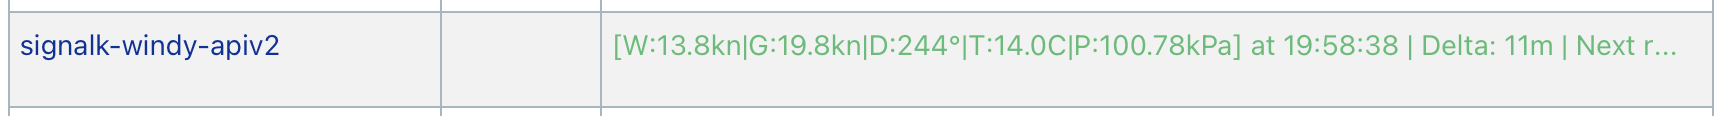
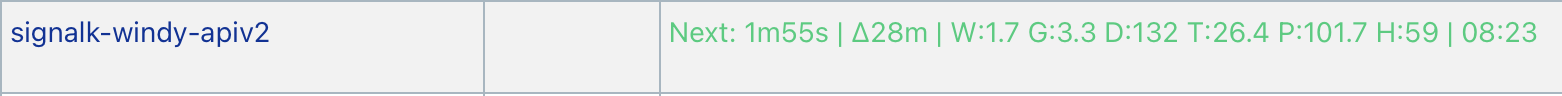
release: v1.6.0 - stale readings left out, one source for all readings, Forced indicator, station elevation

diff --git a/CHANGELOG.md b/CHANGELOG.md
@@ -19,6 +19,7 @@ and this project adheres to [Semantic Versioning](https://semver.org/spec/v2.0.0
 - **Gust Never Below Wind**: Wind speed and gust now come from the same samples, and a gust is never sent below the wind speed of the same report. A report such as wind 8.6 kn with gust 0.2 kn, as described in [#9](https://github.com/Peter-Petrik/signalk-windy-apiv2/issues/9), can no longer be produced. The cause of that report has not been established, so the issue stays open.
 - **"No data" Line Replaces "Waiting for sensor data"**: When a cycle has nothing to send, the dashboard names the first path without a usable reading and the number of further ones, for example `No data: environment.wind.speedOverGround +4`, and keeps showing it through the countdown. The earlier message was replaced by the countdown after one second, and the readings of the last report stayed on the line as if they were current.
 - **No Station Update From an Old Position**: A station update is not sent when the last position is older than the Maximum Reading Age. The vessel may have moved since, and the station would be placed where the vessel no longer is.
+- **Screenshots**: The screenshots of the dashboard status, the vessel settings and the transmission settings were retaken with this version on Signal K server 2.33.0. The dashboard status and the transmission settings are shown in the Signal K App Store again; they had been left out of the store's list since 1.5.1 because they showed an earlier version.
 - **Settings Help Text**: The descriptions of Station Type, Operator Website URL, the two sensor heights and the Min Movement Threshold now say what each value does. The sensor heights are described as heights above the water line and not the station elevation, which was the misunderstanding behind one part of [#9](https://github.com/Peter-Petrik/signalk-windy-apiv2/issues/9).
 
 ## [1.5.2] - 2026-10-10

diff --git a/README.md b/README.md
@@ -188,9 +188,13 @@ Contributions are welcome — see [CONTRIBUTING.md](CONTRIBUTING.md) for guideli
 ### Vessel on Windy Map
 ![Windy Station View](screenshots/windy-station.png)
 
+### Dashboard Status
+![Dashboard Status](screenshots/dashboard-status.png)
+
 ### Plugin Configuration
 ![Credentials](screenshots/configuration-credentials.png)
 ![Vessel](screenshots/configuration-vessel.png)
+![Transmission](screenshots/configuration-transmission.png)
 ![Path Overrides](screenshots/configuration-path-overrides.png)
 
 ## License
